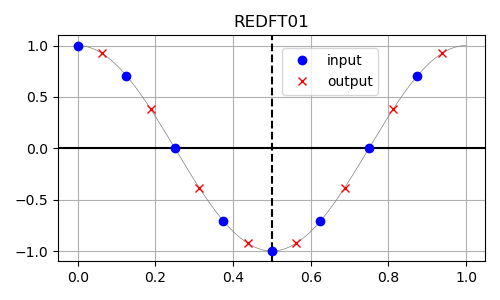
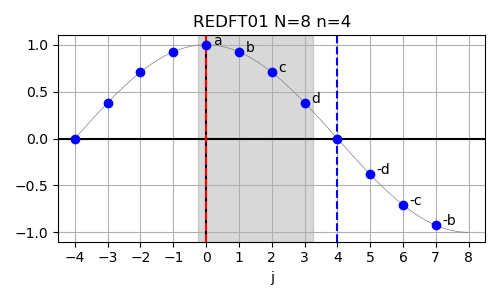
REDFTxx plots refined

diff --git a/img/plot_1d_redft_examples.py b/img/plot_1d_redft_examples.py
@@ -8,66 +8,162 @@ Created on Thu Mar 18 18:59:42 2021
 
 import numpy as np
 import matplotlib.pyplot as plt
+from matplotlib.ticker import MaxNLocator
 
 omega = 2.0*np.pi
 
-# eval cosine at 1000 points for background
-t_ref = np.arange(1000)/1000
+# eval cosine at n_ref points for background
+n_ref = 1024
+t_ref = (np.arange(-n_ref/2, n_ref))/n_ref
 y_ref = np.cos(omega*t_ref)
+y_ref_1 = np.cos(omega*(t_ref+0.5))
+y_ref_2 = np.cos(omega*t_ref/2)
 
-# discrete sample at n points
-n = 8
+# logical DFT size
+N = 8
 
-t0 = np.arange(n)/n
-y0 = np.cos(omega*t0)
+t = np.arange(-N/2, N)
+y0 = np.cos(omega*t/N)
+y1 = np.cos(omega*(t+0.5)/N)
+y2 = np.cos(omega*t/N/2)
+y3 = np.cos(omega*(t+0.5)/N/2)
 
-t1 = (np.arange(n)+0.5)/n
-y1 = np.cos(omega*t1)
+#%% REDFT00 
+n = int(N/2)+1
 
 plt.figure(figsize=(5,3))
-plt.plot(t_ref, y_ref, '-', color='gray', linewidth=0.5)
-plt.axhline(0.0, ls='-', color='k')
-plt.axvline(0.5, ls='--', color='k')
-plt.plot(t0, y0, 'bo', label='input')
-plt.plot(t0, y0, 'rx', label='output')
+
+plt.plot(t_ref*N, y_ref, '-', color='gray', linewidth=0.5)
+plt.axhline(0, ls='-', color='k')
+plt.axvline(0, ls='-', color='k')
+
+# symmetry lines
+plt.axvline(0, ls='--', color='r')
+plt.axvline(n-1, ls='--', color='r')
+
+# highlight array contents
+plt.axvspan(0-0.25, (n-1)+0.25, alpha=0.3, color='gray')
+
+plt.plot(t, y0, 'bo')
+
+for i in range(N):
+    if i==2 or i==4:
+        plt.text(t[int(i+N/2)]+0.2, y0[int(i+N/2)]+0.05, chr(ord("a")+i))
+    elif i>=n:
+        plt.text(t[int(i+N/2)]+0.2, y0[int(i+N/2)]+0.05, chr(ord("a")+(N-i)))
+    else:
+        plt.text(t[int(i+N/2)]+0.2, y0[int(i+N/2)], chr(ord("a")+i))
+
+# only integer xaxis ticks
+plt.gca().xaxis.set_major_locator(MaxNLocator(steps=(1,10), integer=True))
+plt.xlim((-4.5, 8.5))
+
 plt.grid(True)
-plt.title("REDFT00")
-plt.legend(loc=(0.525, 0.738))
+plt.xlabel("j")
+plt.title("REDFT00 N=%d n=%d"%(N, n))
 plt.tight_layout()
 plt.savefig("redft00.png")
 
+#%% REDFT10
+n = int(N/2)
+
 plt.figure(figsize=(5,3))
-plt.plot(t_ref, y_ref, '-', color='gray', linewidth=0.5)
-plt.axhline(0.0, ls='-', color='k')
-plt.axvline(0.5, ls='--', color='k')
-plt.plot(t1, y1, 'bo', label='input')
-plt.plot(t0, y0, 'rx', label='output')
+plt.plot(t_ref[int(n_ref/N/2):-int(n_ref/N/2)]*N-0.5, y_ref[int(n_ref/N/2):-int(n_ref/N/2)], '-', color='gray', linewidth=0.5)
+plt.axhline(0, ls='-', color='k')
+plt.axvline(0, ls='-', color='k')
+
+# symmetry lines
+plt.axvline(-0.5, ls='--', color='r')
+plt.axvline(n-0.5, ls='--', color='r')
+
+# highlight array contents
+plt.axvspan(0-0.25, (n-1)+0.25, alpha=0.3, color='gray')
+
+plt.plot(t, y1, 'bo')
+
+for i in range(N):
+    if i==n-1:
+        plt.text(t[int(i+N/2)]-0.7, y1[int(i+N/2)], chr(ord("a")+i))
+    elif i==N-1:
+        plt.text(t[int(i+N/2)]-0.7, y1[int(i+N/2)], chr(ord("a")+(N-i-1)))
+    elif i>=n:
+        plt.text(t[int(i+N/2)]+0.2, y1[int(i+N/2)], chr(ord("a")+(N-i-1)))
+    else:
+        plt.text(t[int(i+N/2)]+0.2, y1[int(i+N/2)], chr(ord("a")+i))
+
+# only integer xaxis ticks
+plt.gca().xaxis.set_major_locator(MaxNLocator(steps=(1,10), integer=True))
+plt.xlim((-4.5, 8.5))
+
 plt.grid(True)
-plt.title("REDFT10")
-plt.legend(loc=(0.525, 0.738))
+plt.xlabel("j")
+plt.title("REDFT10 N=%d n=%d"%(N, n))
 plt.tight_layout()
 plt.savefig("redft10.png")
 
+#%% REDFT01
+
 plt.figure(figsize=(5,3))
-plt.plot(t_ref, y_ref, '-', color='gray', linewidth=0.5)
-plt.axhline(0.0, ls='-', color='k')
-plt.axvline(0.5, ls='--', color='k')
-plt.plot(t0, y0, 'bo', label='input')
-plt.plot(t1, y1, 'rx', label='output')
+plt.plot(t_ref*N, y_ref_2, '-', color='gray', linewidth=0.5)
+plt.axhline(0, ls='-', color='k')
+plt.axvline(0, ls='-', color='k')
+
+# symmetry lines
+plt.axvline(0, ls='--', color='r')
+plt.axvline(n, ls='--', color='b')
+
+# highlight array contents
+plt.axvspan(0-0.25, (n-1)+0.25, alpha=0.3, color='gray')
+
+plt.plot(t, y2, 'bo')
+
+for i in range(N):
+    if i>n:
+        plt.text(t[int(i+N/2)]+0.2, y2[int(i+N/2)], "-"+chr(ord("a")+(N-i)))
+    elif i<n:
+        plt.text(t[int(i+N/2)]+0.2, y2[int(i+N/2)], chr(ord("a")+i))
+
+# only integer xaxis ticks
+plt.gca().xaxis.set_major_locator(MaxNLocator(steps=(1,10), integer=True))
+plt.xlim((-4.5, 8.5))
+
 plt.grid(True)
-plt.title("REDFT01")
-plt.legend(loc=(0.525, 0.738))
+plt.xlabel("j")
+plt.title("REDFT01 N=%d n=%d"%(N, n))
 plt.tight_layout()
 plt.savefig("redft01.png")
 
+
+#%% REDFT11
+
 plt.figure(figsize=(5,3))
-plt.plot(t_ref, y_ref, '-', color='gray', linewidth=0.5)
-plt.axhline(0.0, ls='-', color='k')
-plt.axvline(0.5, ls='--', color='k')
-plt.plot(t1, y1, 'bo', label='input')
-plt.plot(t1, y1, 'rx', label='output')
+plt.plot(t_ref[int(n_ref/N/2):-int(n_ref/N/2)]*N-0.5, y_ref_2[int(n_ref/N/2):-int(n_ref/N/2)], '-', color='gray', linewidth=0.5)
+plt.axhline(0, ls='-', color='k')
+plt.axvline(0, ls='-', color='k')
+
+# symmetry lines
+plt.axvline(-0.5, ls='--', color='r')
+plt.axvline(n-0.5, ls='--', color='b')
+
+# highlight array contents
+plt.axvspan(0-0.25, (n-1)+0.25, alpha=0.3, color='gray')
+
+plt.plot(t, y3, 'bo')
+
+for i in range(N):
+    if i==n-1:
+        plt.text(t[int(i+N/2)]-0.6, y3[int(i+N/2)], chr(ord("a")+i))
+    elif i>=n:
+        plt.text(t[int(i+N/2)]+0.2, y3[int(i+N/2)], "-"+chr(ord("a")+(N-i-1)))
+    else:
+        plt.text(t[int(i+N/2)]+0.2, y3[int(i+N/2)], chr(ord("a")+i))
+
+# only integer xaxis ticks
+plt.gca().xaxis.set_major_locator(MaxNLocator(steps=(1,10), integer=True))
+plt.xlim((-4.5, 8.5))
+
 plt.grid(True)
-plt.title("REDFT11")
-plt.legend(loc=(0.525, 0.738))
+plt.xlabel("j")
+plt.title("REDFT11 N=%d n=%d"%(N, n))
 plt.tight_layout()
 plt.savefig("redft11.png")
